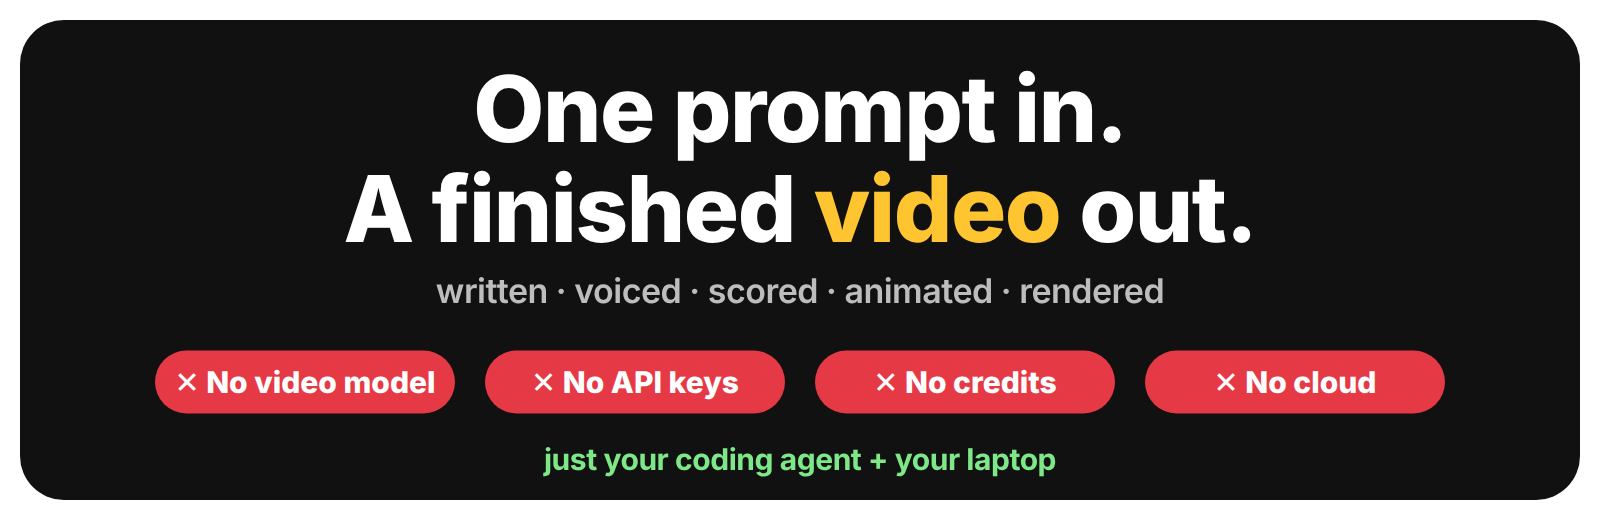
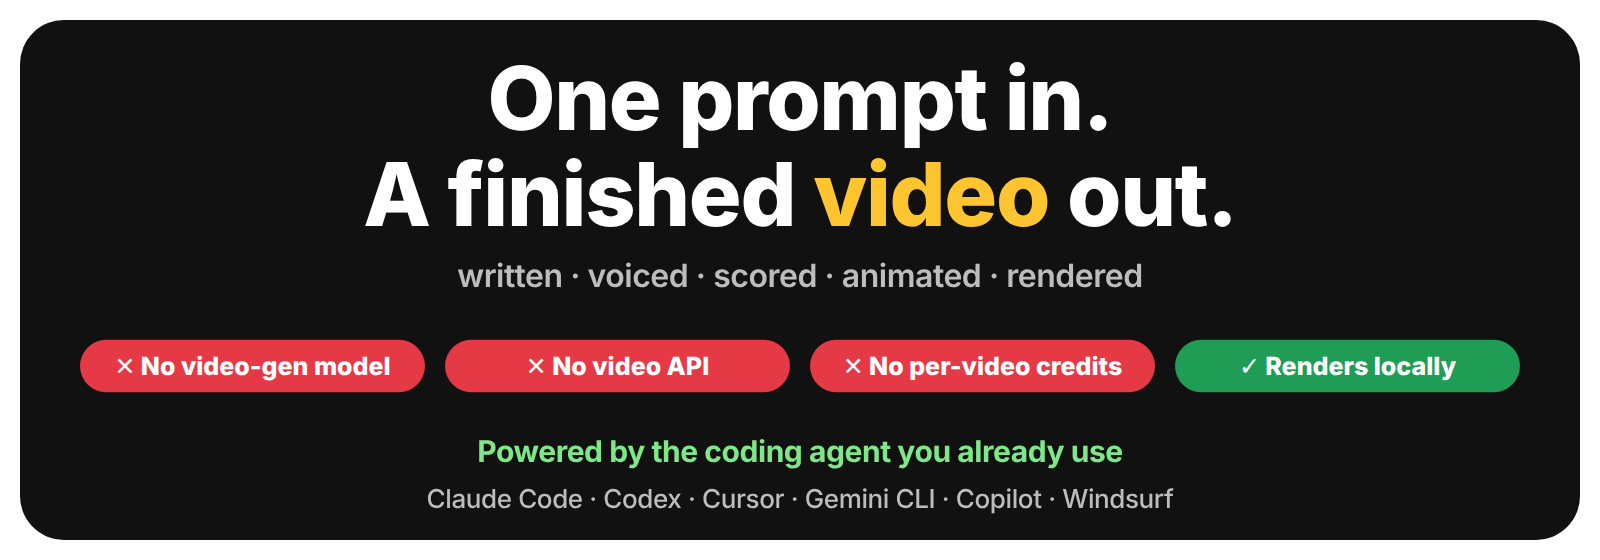
Clarify that a coding agent is required; no video-generation AI or per-video cost

diff --git a/assets/brand/promise-banner/scenes.js b/assets/brand/promise-banner/scenes.js
@@ -1,15 +1,13 @@
-// README promise banner (1600x520). Render: stickman snapshot assets/brand/promise-banner --at 1.9
+// README promise banner (1600x560). Render: stickman snapshot assets/brand/promise-banner --at 1.9
 const film = SM.film();
 film.scene("banner", sc => {
-  sc.rect(800, 260, 1560, 480, { r: 44, fill: "#111111", stroke: false, layer: "back" });
-  sc.text("One prompt in.", { x: 800, y: 110, size: 92, color: "#FFFFFF", visible: true, raw: true });
-  sc.text("A finished [video] out.", { x: 800, y: 210, size: 92, color: "#FFFFFF", accent: "#FFC531", visible: true, raw: true });
-  sc.text("written · voiced · scored · animated · rendered", { x: 800, y: 292, size: 34, font: "body", weight: 600, color: "#BDBDBD", visible: true, raw: true });
-  const pills = ["No video model", "No API keys", "No credits", "No cloud"];
-  pills.forEach((p, i) => {
-    const x = 800 + (i - 1.5) * 330;
-    const b = SM.pill(sc, "✕  " + p, x, 382, { fill: "#E63946", size: 30 / sc.u, w: 300 / sc.u });
-    b.show();
-  });
-  sc.text("just your coding agent + your laptop", { x: 800, y: 460, size: 30, font: "body", weight: 700, color: "#7EE787", visible: true, raw: true });
+  const k = 1 / sc.u;   // sizes below are in real pixels
+  sc.rect(800, 280, 1560, 520, { r: 44, fill: "#111111", stroke: false, layer: "back" });
+  sc.text("One prompt in.", { x: 800, y: 100, size: 88, color: "#FFFFFF", visible: true, raw: true });
+  sc.text("A finished [video] out.", { x: 800, y: 196, size: 88, color: "#FFFFFF", accent: "#FFC531", visible: true, raw: true });
+  sc.text("written · voiced · scored · animated · rendered", { x: 800, y: 276, size: 32, font: "body", weight: 600, color: "#BDBDBD", visible: true, raw: true });
+  const pills = [["✕  No video-gen model", "#E63946"], ["✕  No video API", "#E63946"], ["✕  No per-video credits", "#E63946"], ["✓  Renders locally", "#1F9D55"]];
+  pills.forEach(([label, fill], i) => SM.pill(sc, label, 800 + (i - 1.5) * 365, 366, { fill, size: 25 * k, w: 345 * k }).show());
+  sc.text("Powered by the coding agent you already use", { x: 800, y: 452, size: 30, font: "body", weight: 700, color: "#7EE787", visible: true, raw: true });
+  sc.text("Claude Code · Codex · Cursor · Gemini CLI · Copilot · Windsurf", { x: 800, y: 500, size: 26, font: "body", weight: 500, color: "#BDBDBD", visible: true, raw: true });
 });

diff --git a/README.md b/README.md
@@ -5,17 +5,17 @@
 
 # Stickman films, directed by your AI agent, rendered as code.
 
-<img src="docs/images/promise.png" alt="One prompt in. A finished video out. Written, voiced, scored, animated, rendered. No video model, no API keys, no credits, no cloud: just your coding agent and your laptop." width="860">
+<img src="docs/images/promise.png" alt="One prompt in. A finished video out. Written, voiced, scored, animated, rendered. No video-generation model, no video API, no per-video credits, renders locally. Powered by the coding agent you already use." width="860">
 
 ### ✍ One prompt in → 🎞 a finished, voiced, scored, animated video out.
-### 🚫 No video-generation model · 🚫 No API keys · 🚫 No credits · 🚫 No cloud
-**Just your coding agent and your laptop.**
+### 🚫 No video-generation model · 🚫 No video API · 🚫 No per-video credits · 🖥 Renders on your machine
+**The only AI you need is the coding agent you already use:** Claude Code, Codex, Cursor, Gemini CLI, Copilot, Windsurf…
 
 [![CI](https://github.com/dsauce/stickman-kino/actions/workflows/ci.yml/badge.svg)](https://github.com/dsauce/stickman-kino/actions/workflows/ci.yml)
 [![Stars](https://img.shields.io/github/stars/dsauce/stickman-kino?style=flat&logo=github&color=f2b400)](https://github.com/dsauce/stickman-kino/stargazers)
 [![License: MIT](https://img.shields.io/badge/license-MIT-16a34a.svg)](LICENSE)
 ![Video-gen APIs](https://img.shields.io/badge/video--gen%20APIs-zero-e63946)
-![Cost per video](https://img.shields.io/badge/cost%20per%20video-%240-111)
+![Render cost](https://img.shields.io/badge/render%20cost-%240%20%28local%29-111)
 ![Props](https://img.shields.io/badge/props-202-1d7fe0)
 ![Poses](https://img.shields.io/badge/poses-58-6c4bff)
 
@@ -28,8 +28,8 @@
 
 > [!IMPORTANT]
 > ### 🚫 Zero video-generation AI. Not a single frame is "generated".
-> No Sora. No Veo. No Runway, Kling or Pika. **No video API, no model weights to download, no credits to buy, no rate limits, no waiting in a queue.**
-> Stickman Kino is an *animation engine*: it draws every frame from code, on your machine, the way a game engine draws a game. Your coding agent writes that code. So every video is **free, private, deterministic and fully editable**, down to a single frame, a single word or a single colour.
+> No Sora. No Veo. No Runway, Kling or Pika. **No video API, no video credits to buy, no render queue, no uploading your ideas to a video service.**
+> Stickman Kino is an *animation engine*: it draws every frame from code, on your machine, the way a game engine draws a game. The only AI in the loop is your coding agent, which writes the script and that code. So every video is **free, private, deterministic and fully editable**, down to a single frame, a single word or a single colour.
 
 ---
 
@@ -55,8 +55,8 @@ That's exactly how the film above was made. Want vertical for TikTok? A British 
 <table>
 <tr><td width="33%" valign="top">
 
-### 🆓 Actually free
-Rendering, voice (local neural TTS), music and sound effects all run on your machine. The music and SFX are **synthesised from code**, so there's nothing to license and nothing to get copyright-struck.
+### 🆓 No per-video cost
+Rendering, voice (local neural TTS), music and sound effects all run on your machine, so a film costs nothing beyond the coding agent you already use. The music and SFX are **synthesised from code**: nothing to license, nothing to get copyright-struck.
 
 </td><td width="33%" valign="top">
 
@@ -78,9 +78,9 @@ Four battle-tested skills (director, animator, sound, producer) teach any coding
 | Fix one moment without regenerating | ✅ | ❌ | ✅ |
 | Voice-over synced to the action | hours | random | ✅ word-level cues |
 | Licence-free music & SFX | 💸 | - | ✅ generated |
-| API keys / credits / cloud | - | required | **none** |
+| Video-generation API, keys or credits | - | required | **none** |
 | From a plain-English prompt | ❌ | ✅ | ✅ |
-| Cost per minute of video | hours of work | credits | **$0** |
+| Extra cost per video | hours of work | credits per clip | **$0** (beyond your agent) |
 
 ## 🧰 What's in the box
 
@@ -146,6 +146,8 @@ npm install
 node bin/stickman.mjs setup                    # Chrome libs + free local voice (no sudo, no API keys)
 node bin/stickman.mjs build samples/chorus     # → samples/chorus/renders/chorus.mp4
 ```
+
+**What you need:** Node 18+ and a coding agent that can run terminal commands on your computer (Claude Code, Codex CLI, Cursor, Gemini CLI, Copilot agent mode, Windsurf…). Chat-only web apps like ChatGPT or claude.ai can't run the renderer themselves; they can draft `film.json` and `scenes.js` for you to build with the CLI. Cloud coding agents may work but are untested.
 
 Now open the folder in your agent and ask for *your* film. Or install the skills everywhere:
 

diff --git a/docs/agents.md b/docs/agents.md
@@ -9,6 +9,16 @@ Stickman Kino ships four [agent skills](../skills): plain-Markdown playbooks any
 | [`stickman-animator`](../skills/stickman-animator/SKILL.md) | storyboard → `scenes.js` using the engine, synced to the VO |
 | [`stickman-sound`](../skills/stickman-sound/SKILL.md) | voices, music, SFX, loudness |
 
+## What counts as an "agent"
+
+Stickman Kino needs an AI coding agent that can **read and write files and run terminal commands on your computer**. That agent is the only AI involved: it writes the script and the scene code, and the engine renders the frames locally.
+
+| Works | Doesn't work on its own |
+|---|---|
+| Claude Code, OpenAI Codex CLI, Cursor, Windsurf, GitHub Copilot (agent mode), Gemini CLI, Aider | chat-only web apps (ChatGPT, claude.ai, Gemini web): they can't run the renderer, but they can draft `film.json` / `scenes.js` that you then build with `stickman build` |
+
+Cloud-hosted coding agents (e.g. agents that run in a remote sandbox) may work if the sandbox can install Node and Chrome, but they're untested.
+
 ## The fastest path: open the repo and ask
 
 Every agent below reads `AGENTS.md` and/or `CLAUDE.md` at the repo root, which points it at the skills. So:

diff --git a/docs/faq.md b/docs/faq.md
@@ -1,6 +1,6 @@
 # FAQ
 
-> **No video-generation AI is involved, anywhere.** Stickman Kino never calls Sora, Veo, Runway, Kling or any other video model or API. It draws every frame itself, from code, on your machine. No keys, no credits, no uploads.
+> **No video-generation AI is involved, anywhere.** Stickman Kino never calls Sora, Veo, Runway, Kling or any other video model or API. It draws every frame itself, from code, on your machine: no video API keys, no video credits, no uploads. The only AI in the loop is the coding agent you use to direct it.
 
 **Do I need an API key or a paid service?**
 No. Not for video, not for voice, not for music. Rendering, voice (Kokoro), music and SFX all run locally. Your coding agent is the only thing that might cost money, and you can also write `scenes.js` by hand.

diff --git a/docs/how-it-works.md b/docs/how-it-works.md
@@ -1,6 +1,6 @@
 # How it works
 
-> **No video-generation AI is involved, anywhere.** Stickman Kino never calls Sora, Veo, Runway, Kling or any other video model or API. It draws every frame itself, from code, on your machine. No keys, no credits, no uploads.
+> **No video-generation AI is involved, anywhere.** Stickman Kino never calls Sora, Veo, Runway, Kling or any other video model or API. It draws every frame itself, from code, on your machine: no video API keys, no video credits, no uploads. The only AI in the loop is the coding agent you use to direct it.
 
 ```text
 film.json ──► stickman audio ──► assets/ (VO, music, SFX) + audio.json (durations)

diff --git a/docs/getting-started.md b/docs/getting-started.md
@@ -1,6 +1,6 @@
 # Getting started
 
-> **No video-generation AI is involved, anywhere.** Stickman Kino never calls Sora, Veo, Runway, Kling or any other video model or API. It draws every frame itself, from code, on your machine. No keys, no credits, no uploads.
+> **No video-generation AI is involved, anywhere.** Stickman Kino never calls Sora, Veo, Runway, Kling or any other video model or API. It draws every frame itself, from code, on your machine: no video API keys, no video credits, no uploads. The only AI in the loop is the coding agent you use to direct it.
 
 ## Requirements
 
